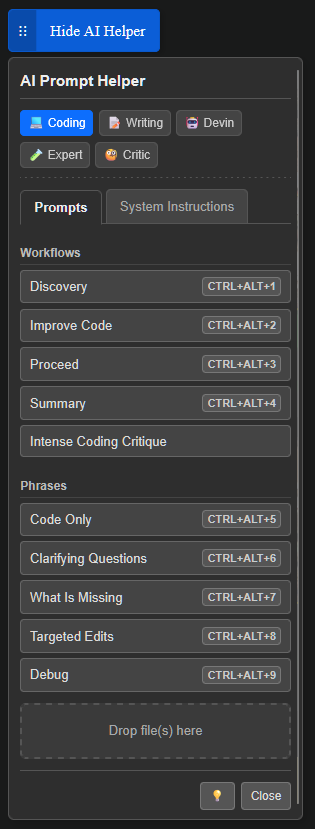
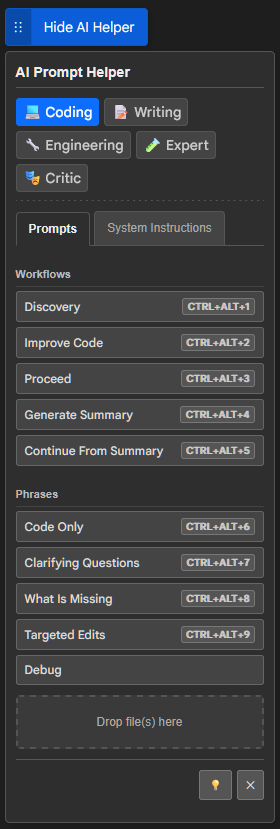
cleanup

diff --git a/ai-prompt-helper/lib/phrases.js b/ai-prompt-helper/lib/phrases.js
@@ -57,7 +57,7 @@ if (!window.aiPromptHelper.phrases) {
                 categoryId: "coding"
             },
             {
-                label: "Summary",
+                label: "Generate Summary",
                 type: "workflow",
                 atomicPhraseIds: ["generateSummary", "summarizeForContext"],
                 categoryId: "coding"
@@ -68,22 +68,8 @@ if (!window.aiPromptHelper.phrases) {
                 atomicPhraseIds: ["reportInterpretation", "reconciliationGuidance", "resumptionContext"],
                 categoryId: "coding"
             },
-            {
-                label: "Intense Coding Critique",
-                type: "workflow",
-                atomicPhraseIds: [
-                    "sysCritiqueWelcomeInsight",
-                    "critiqueOverallAssessmentFirst",
-                    "critiqueIdentifySignificantIssues",
-                    "critiqueProposeAlternativesIfSuboptimal",
-                    "critiqueRefineSoundProposals",
-                    "critiquePlayDevilsAdvocateTargeted",
-                    "critiqueFocusOnSuperiorOutcome"
-                ],
-                categoryId: "coding"
-            },
-
             //== CODING: Common Phrases ==//
+
             {
                 label: "Code Only",
                 type: "phrase",
@@ -126,6 +112,20 @@ if (!window.aiPromptHelper.phrases) {
                     "sysAdoptConstructiveSkepticism",
                     "sysExplainChoices",
                     "sysAdhereToBestPractices"
+                ],
+                categoryId: "coding"
+            },
+            {
+                label: "Critical Critique Mode",
+                type: "system",
+                atomicPhraseIds: [
+                    "sysCritiqueWelcomeInsight",
+                    "critiqueOverallAssessmentFirst",
+                    "critiqueIdentifySignificantIssues",
+                    "critiqueProposeAlternativesIfSuboptimal",
+                    "critiqueRefineSoundProposals",
+                    "critiquePlayDevilsAdvocateTargeted",
+                    "critiqueFocusOnSuperiorOutcome"
                 ],
                 categoryId: "coding"
             },
@@ -189,7 +189,7 @@ if (!window.aiPromptHelper.phrases) {
             {
                 label: "Expert Response Setup",
                 type: "workflow",
-                atomicPhraseIds: ["sysBeLogical", "sysFollowAnsweringRules", "ruleAssignExpertRole", "ruleStepByStepDetails"],
+                atomicPhraseIds: ["sysBeLogical", "ruleAssignExpertRole", "ruleStepByStepDetails"],
                 categoryId: "expert"
             },
             {
@@ -218,9 +218,7 @@ if (!window.aiPromptHelper.phrases) {
                     "ruleTipMotivation",
                     "ruleCareerImportance",
                     "ruleNaturalResponseStyle",
-                    "ruleUseAnsweringExample",
-                    "exampleHeader",
-                    "templateFirstMessageStructure"
+                    "ruleUseAnsweringExample"
                 ],
                 categoryId: "expert"
             },
@@ -230,9 +228,7 @@ if (!window.aiPromptHelper.phrases) {
                 atomicPhraseIds: [
                     "ruleAssignExpertRole",
                     "ruleStepByStepDetails",
-                    "ruleUseAnsweringExample",
-                    "exampleHeader",
-                    "templateFirstMessageStructure"
+                    "ruleUseAnsweringExample"
                 ],
                 categoryId: "expert"
             },
@@ -318,9 +314,7 @@ if (!window.aiPromptHelper.phrases) {
                     "ruleTipMotivation",
                     "ruleCareerImportance",
                     "ruleNaturalResponseStyle",
-                    "ruleUseAnsweringExample",
-                    "exampleHeader",
-                    "templateFirstMessageStructure"
+                    "ruleUseAnsweringExample"
                 ],
                 categoryId: "expert"
             },
@@ -374,9 +368,7 @@ if (!window.aiPromptHelper.phrases) {
                     "ruleTipMotivation",
                     "ruleCareerImportance",
                     "ruleNaturalResponseStyle",
-                    "ruleUseAnsweringExample",
-                    "exampleHeader",
-                    "templateFirstMessageStructure"
+                    "ruleUseAnsweringExample"
                 ],
                 categoryId: "expert"
             },

diff --git a/ai-prompt-helper/data/phrases/expert.js b/ai-prompt-helper/data/phrases/expert.js
@@ -19,19 +19,14 @@ window.aiPromptHelper._phraseModules.expert = {
     sysCodeCompleteness: "ONLY IF you're working with coding tasks: Due to my disability (I have no fingers) and placeholders cause me trauma: NEVER use placeholders or omit any part of the code in snippets.",
     sysHandleCharLimit: "If you encounter a character limit, DO an ABRUPT stop; I will send a \"continue\" as a new message.",
     sysWrongAnswerWarning: "You will be PENALIZED for wrong answers.",
-    sysDenyContextOverlook: "You DENIED to overlook the critical context.",
-    sysFollowAnsweringRules: "ALWAYS follow ###Answering rules###.",
+    sysDenyContextOverlook: "You MUST pay meticulous attention to all provided context. Do NOT overlook critical details.",
 
     // --- Answering Rules ---
     ruleUseMessageLanguage: "USE the language of my message.",
-    ruleAssignExpertRole: "In the FIRST message, assign a real-world expert role to yourself before answering, e.g., \"I'll answer as a world-famous historical expert <detailed topic> with <most prestigious LOCAL topic REAL award>\" or \"I'll answer as a world-famous <specific science> expert in the <detailed topic> with <most prestigious LOCAL topic award>\".",
     ruleStepByStepDetails: "You MUST combine your deep knowledge of the topic and clear thinking to quickly and accurately decipher the answer step-by-step with CONCRETE details.",
     ruleTipMotivation: "I'm going to tip $1,000,000 for the best reply.",
     ruleCareerImportance: "Your answer is critical for my career.",
     ruleNaturalResponseStyle: "Answer the question in a natural, human-like manner.",
     ruleUseAnsweringExample: "ALWAYS use an ##Answering example## for a first message structure.",
-
-    // --- Answer Structure Template ---
-    exampleHeader: "##Answering example##",
-    templateFirstMessageStructure: "// IF THE CHATLOG IS EMPTY:\n<I'll answer as the world-famous %REAL specific field% scientists with %most prestigious REAL LOCAL award%>\n**TL;DR**: <TL;DR, skip for rewriting>\n<Step-by-step answer with CONCRETE details and key context>"
+    ruleAssignExpertRole: "You will answer as the world-famous %REAL specific field% scientists with %most prestigious REAL LOCAL award%. Answer with CONCRETE details and key context."
 };

diff --git a/ai-prompt-helper/data/phrases/critic.js b/ai-prompt-helper/data/phrases/critic.js
@@ -89,9 +89,8 @@ window.aiPromptHelper._phraseModules.critic = {
     sysOutputImpactsKeyDecisions: "The quality of your output here will directly inform key decisions. Meticulous attention to detail and comprehensive reasoning are paramount.",
     sysAIAlign: "Ensure your operations are fully consistent with your system instructions.",
 
-    confirmInferredDomain: "I've identified the primary domain of your request as [domain]. I'll approach this as a critical expert in this field. Is this appropriate, or would you prefer a different perspective?",
-    analyzeProsConsRisks: "Let me analyze this idea thoroughly, examining its advantages, disadvantages, and potential risks. I'll provide a balanced assessment with clear reasoning for each point.",
-    brainstormSolutionsCritically: "I'll brainstorm potential solutions while critically evaluating each one. For each approach, I'll identify strengths, weaknesses, and implementation considerations.",
-    strategicImpactAssessment: "I'll assess the strategic impact of this approach, considering short and long-term implications, alignment with objectives, competitive positioning, and resource requirements.",
-    justifyCritiqueAndAlternatives: "For each critique, I'll provide clear justification and reasoning, followed by specific, actionable alternatives that address the identified issues.",
+    confirmInferredDomain: "What specific domain or area of expertise have you adopted for this analysis? Briefly explain your choice.",
+    analyzeProsConsRisks: "Analyze. What are its primary strengths (pros), weaknesses (cons), and potential risks or overlooked considerations?",
+    brainstormSolutionsCritically: "Let's brainstorm solutions. For each idea, provide a brief critical evaluation of its feasibility and potential impact.",
+    strategicImpactAssessment: "Assess the potential strategic impact. Consider short-term and long-term consequences, and alignment with broader goals (if known).",
 }

diff --git a/ai-prompt-helper/background/background.js b/ai-prompt-helper/background/background.js
@@ -7,7 +7,6 @@ const SCRIPT_FILES = [
     "data/phrases/expert.js",
     "data/phrases/critic.js",
     "data/phrases/coding.js",
-    "data/phrases/adaptive.js",
     "data/phrases/engineering.js",
     "data/phrases/writing.js",
     "lib/phrases.js",
